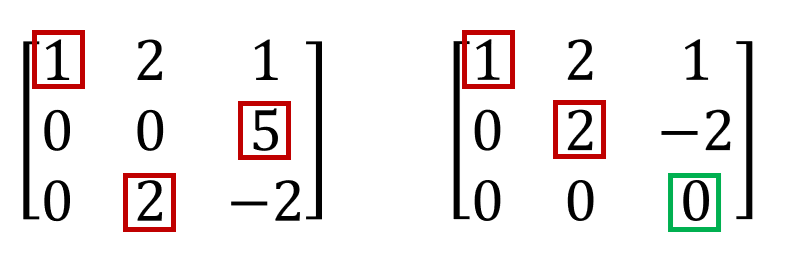
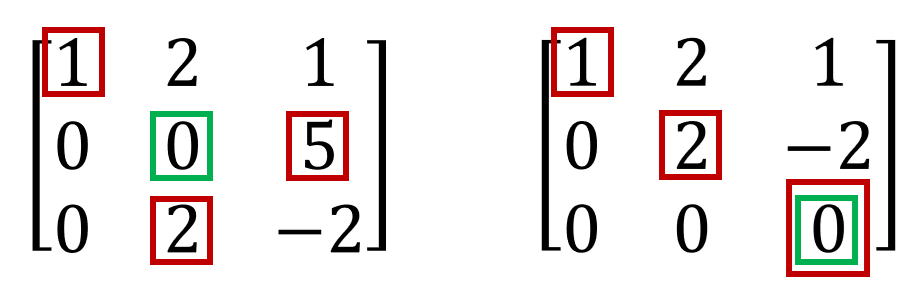
docs: 08/13 소거법 글 수정

diff --git a/_posts/linear_algebra/kr/2025-06-17-linear-algebra-2-kr.md b/_posts/linear_algebra/kr/2025-06-17-linear-algebra-2-kr.md
@@ -69,7 +69,7 @@ $$x$$의 경우 간단하게 후방대입법(back substitution)을 통하여 구
   <strong>그림 3.</strong> Pivot
 </p>
 행 사다리꼴은 별도의 엄밀한 정의가 있지만, 소거법을 진행하면 얻는 상삼각행렬과 비슷한 형태로 이해해도 무방하다.  
-왼쪽사진의 경우는 후방대입법으로 답을 구 할 수 있다. 하지만 오른쪽의 경우는 답을 구할 수 없다. 답을 구할수 없는 경우와 있는 경우를 정리해보자.
+그림3에서 왼쪽사진의 경우는 후방대입법으로 답을 구 할 수 있다. 하지만 오른쪽의 경우는 답을 구할 수 없다. 답을 구할수 없는 경우와 있는 경우를 정리해보자.
 
 첫 번째는 pivot이 0인경우이다.  
 <p align="center">
@@ -78,13 +78,21 @@ $$x$$의 경우 간단하게 후방대입법(back substitution)을 통하여 구
   <strong>그림 4.</strong> Pivot2
 </p>
 
-왼쪽의 경우는 간단한 행 교환으로 인하여 답을 구할 수 있다. 즉 pivot이 0이지만 행 교환으로 0이 아닌 원소를 대각 성분에 놓을수 있다면 **해가 존재**한다.  
+정확하게 말하자면 후방대입법으로 답을 구하기 위한 pivot(대각 성분)의 값이 0인 경우이다. 그림4의 왼쪽의 경우는 후방 대입법으로 값을 구할 수 없다. 하지만 두 번째 행렬과 세 번째 행렬 위치를 바꾸면 상삼각행렬이 만들어진다.  
 
-하지만 오른쪽의 경우는 행 교환으로도 답을 구할 수 없다. 즉 행교환으로도 0이 아닌 원소를 대각 성분에 놓을 수 없는 경우 **해가 존재하지 않는다.**
->pivot은 각 행에서 가장 왼쪽에 위치한 0이 아닌 원소를 의미한다. 다만 여기서는 후방대입법에서 해를 결정하는 대각선 위치의 pivot을 중심으로 설명한다
+즉, pivot 값이 0이더라도 간단한 행 교환으로 0이 아닌 값을 놓을 수 있다면 **해가 존재**한다.
+
+반면, 그림 4 오른쪽처럼 행 교환으로도 대각 성분에 0이 아닌 값을 놓을 수 없는 경우에는 **해가 존재하지 않는다**.  
+>pivot은 각 행에서 가장 왼쪽에 위치한 0이 아닌 원소이지만, 여기서는 후방대입법에서 해를 결정하는 대각선 성분의 위치라는 표현으로 이해하면 편할것 같다.
 
 
-마지막 행이 0 = 0이 되는 이유는 그 행이 이전 행들의 선형결합으로 표현될 수 있기 때문이다. 행렬의 열이나 행 중 일부가 나머지 행 또는 열의 선형결합으로 표현될 수 있는 경우, 그 행렬은 **선형종속(linearly dependent)**이며, 역행렬이 존재하지 않는 비가역(not invertible) 행렬, 즉 특이(singular) 행렬이라고 한다. 역행렬 부분에서 자세히 다루겠다.   
+오른쪽 그림의 마지막 행은 모든 원소가 0이다.  
+이는 $$ Ux = c $$에서 마지막 행이 $$ 0 = 0 $$ 또는 $$ 0 = c $$ 꼴이 될 수 있음을 의미한다.  
+- $$ 0 = c $$ (단, $$ c \neq 0 $$) → 모순이므로 해가 존재하지 않는다.  
+- $$ 0 = 0 $$ >> 자유 변수가 생겨 해가 무한히 많다(유일한 해 없음).  
+
+이 경우 마지막 행은 이전 행들의 선형 결합으로 표현될 수 있으므로, 행렬은 **선형종속(linearly dependent)**이다.  
+선형종속인 행렬은 역행렬이 존재하지 않는 **비가역(not invertible)**, 즉 **특이(singular)** 행렬이다. (역행렬 부분에서 자세히 설명)
 
 not-invertible행렬이 답을 구 할수 없다는 것을 알았다. 반대로 답을 구할수 있는경우는 n x n 정사각행렬이고, 행렬속 pivot의 개수가 n개인경우 답을 구할수 있다. (pivot의 위치가 대각요소가 아니더라도 행교환을 통해 구할수 있는것을 보였다.) 이러한 경우를 invertible(가역행렬)이라고 한다. pivot의 개수가 n개라는 것은 랭크(rank)가 n이라는 것이고 이는 행렬이 full rank라는 것을 의미한다. 이 또한 뒤에서 나올 것이다.
 
